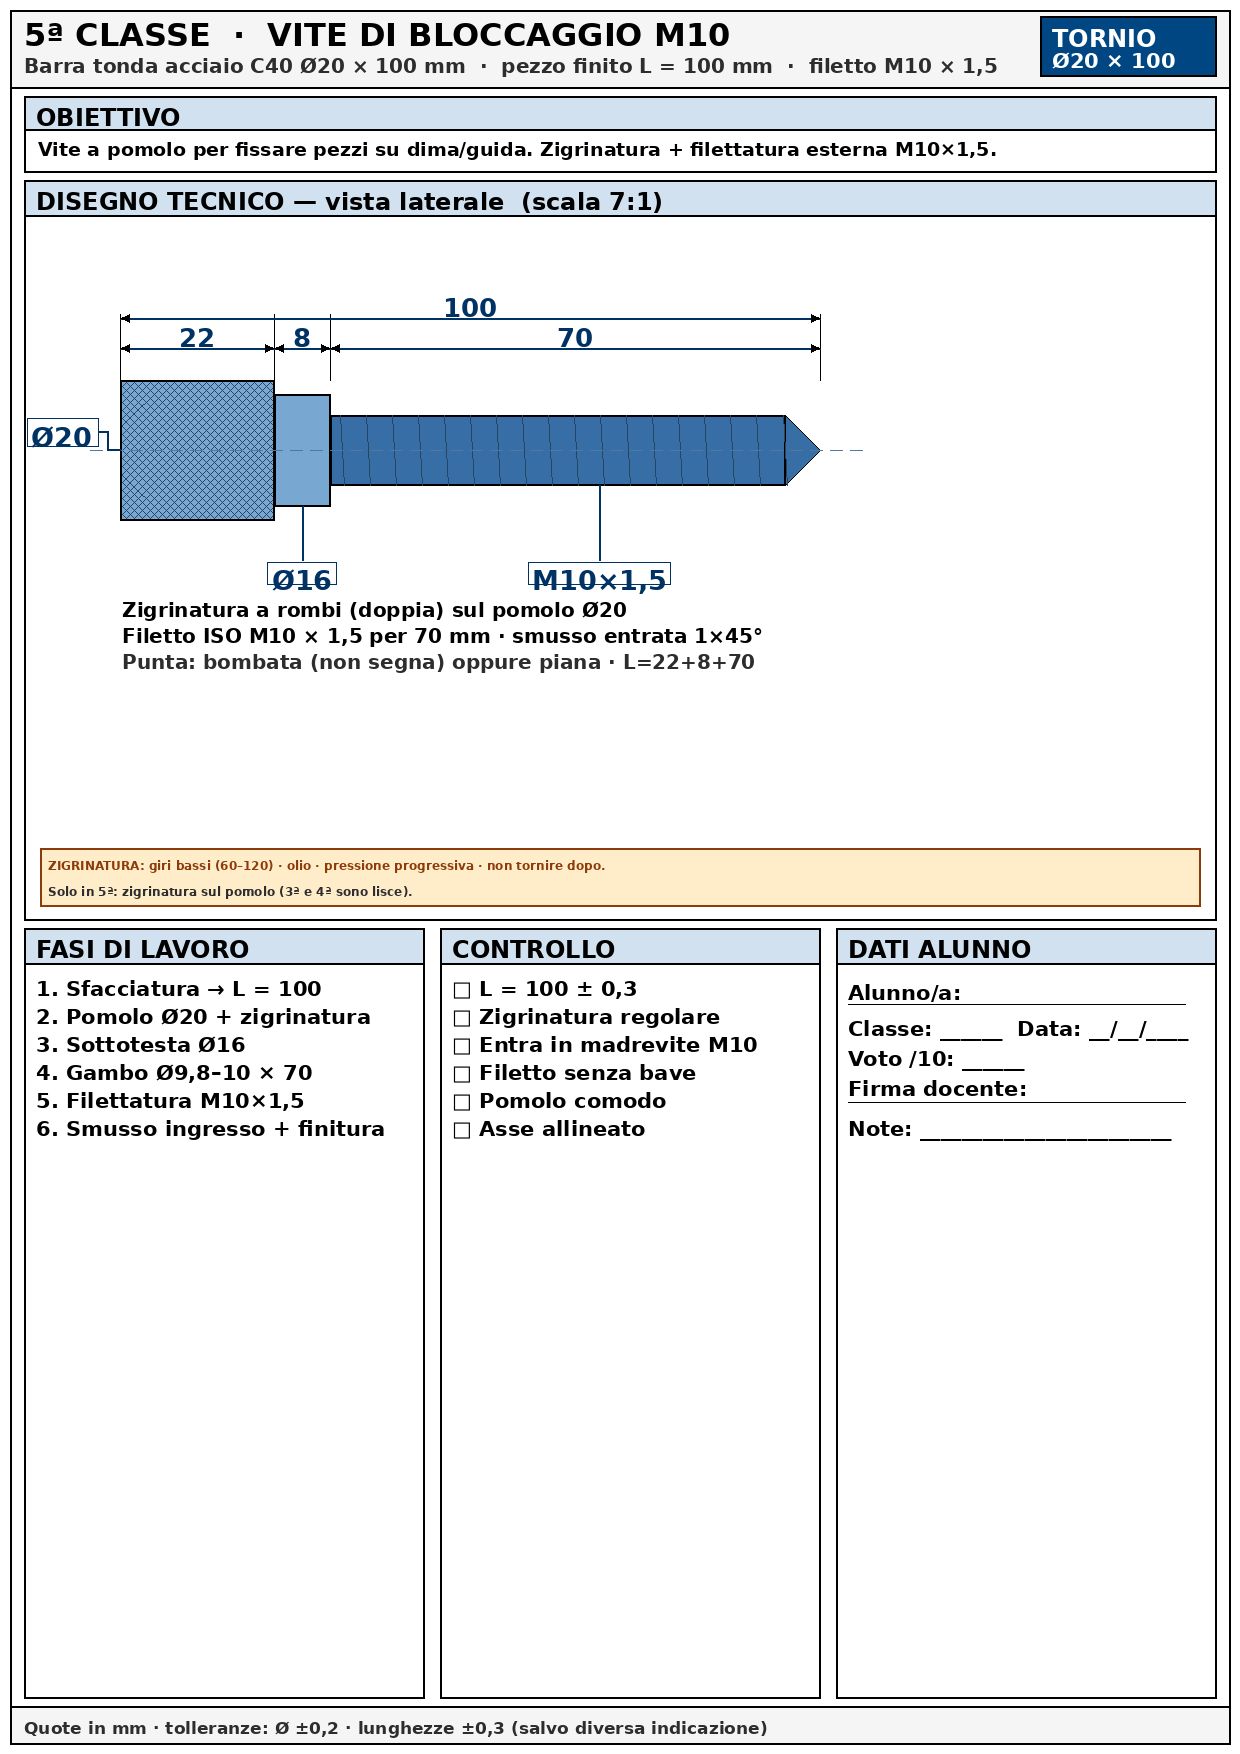
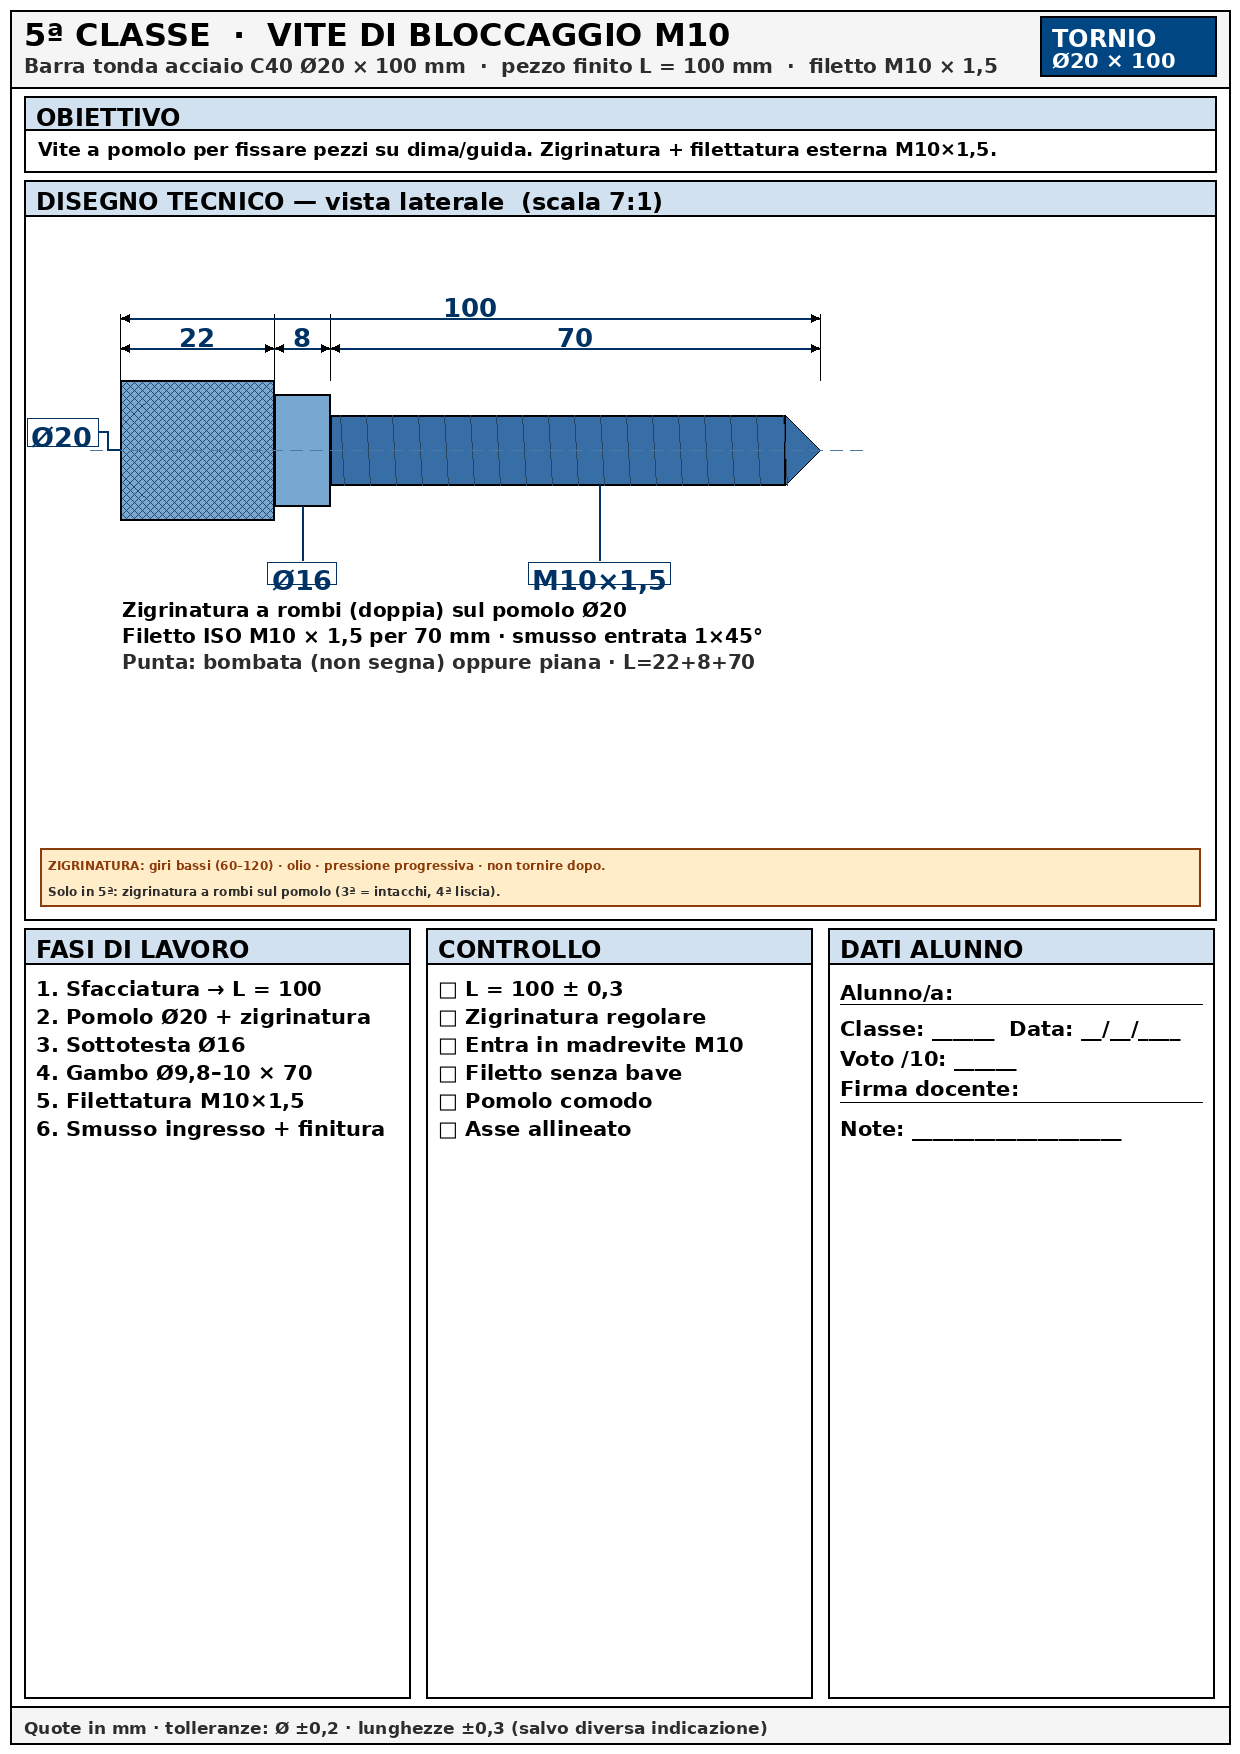
Tre pannelli bassi a larghezza uguale su 2ª, 3ª e 5ª.
Fasi, Controllo e Dati alunno stesse dimensioni; niente vuoto sotto.

diff --git a/progetti-ferro-gallery/generate_ferro.py b/progetti-ferro-gallery/generate_ferro.py
@@ -478,13 +478,18 @@ def make_2a():
         "□ Massa ≈ 100 g",
         "□ Solo ferro (no manico)",
     ]
-    # stessi pannelli bassi delle altre schede (3ª)
+    # Pannelli bassi: stesse dimensioni delle altre schede (3 colonne uguali + stessa altezza)
     step = 26
     bh = 40 + max(len(fasi), len(ctrl)) * step + 20
     bot = FOOT - bh - 8
     draw_h = bot - draw_top - 8
     panel(d, 24, draw_top, W - 48, draw_h, "VISTA LATERALE — ortogonale · ≈100 g · sezione occhio (scala 11:1)")
     panel_bottom = draw_top + draw_h
+    gap_p = 16
+    col_w = (W - 48 - 2 * gap_p) // 3   # ≈386 — uguali tra loro
+    x_fasi = 24
+    x_ctrl = x_fasi + col_w + gap_p
+    x_dati = x_ctrl + col_w + gap_p
 
     FACE_C = (70, 110, 150)
     IRON = (55, 58, 62)
@@ -608,7 +613,9 @@ def make_2a():
         tw = d.textlength(n, font=F14)
         d.text((cx - tw / 2, cy - 10), n, fill=WHITE, font=F14)
 
-    badge_y = mid + h + 36
+    # Blocco sotto pezzo ancorato in basso nel pannello (niente vuoto)
+    block_h = 36 + 44 + 36 + 34 + 32 + 8
+    badge_y = panel_bottom - block_h
     badge((x0 + x1) / 2, badge_y, "1", FACE_C)
     badge(hx, badge_y, "2", IRON)
     badge(peen_mid, badge_y, "3", PEEN_C)
@@ -633,29 +640,29 @@ def make_2a():
     d.rectangle([36, tip_y, info_x1 - 16, tip_y + 32], fill=(255, 245, 245), outline=CAP_RED, width=2)
     d.text((48, tip_y + 6), "Occhiali · morsa · foratura foro 8 · L=60 · sez. 16×16 · ≈100 g", fill=BLACK, font=F13)
 
-    right_y = draw_top + 350
     checks = ["□ Solo testa", "□ Sez. 16×16", "□ Foro 8", "□ ≈100 g", "□ L=60 ±0,3"]
     rh = 30 + len(checks) * 24 + 6
+    right_y = panel_bottom - rh - 12
     d.rectangle([info_x1 + 6, right_y, info_x2 - 6, right_y + rh], fill=WHITE, outline=BLACK, width=2)
     d.text((info_x1 + 12, right_y + 6), "CHECK", fill=ACCENT, font=F13)
     for i, ln in enumerate(checks):
         text_in_box(d, info_x1 + 10, right_y + 28 + i * 24, info_x2 - info_x1 - 24, 22, ln, F12, BLACK, pad=2)
 
-    y = panel(d, 24, bot, 400, bh, "FASI DI LAVORO")
+    y = panel(d, x_fasi, bot, col_w, bh, "FASI DI LAVORO")
     for i, ln in enumerate(fasi):
-        text_in_box(d, 32, y + 2 + i * step, 384, step - 2, ln, F13, BLACK, pad=3)
+        text_in_box(d, x_fasi + 8, y + 2 + i * step, col_w - 16, step - 2, ln, F13, BLACK, pad=3)
 
-    y2 = panel(d, 440, bot, 380, bh, "CONTROLLO")
+    y2 = panel(d, x_ctrl, bot, col_w, bh, "CONTROLLO")
     for i, ln in enumerate(ctrl):
-        text_in_box(d, 448, y2 + 2 + i * step, 364, step - 2, ln, F13, BLACK, pad=3)
+        text_in_box(d, x_ctrl + 8, y2 + 2 + i * step, col_w - 16, step - 2, ln, F13, BLACK, pad=3)
 
-    y3 = panel(d, 836, bot, W - 24 - 836, bh, "DATI ALUNNO")
-    text_in_box(d, 848, y3 + 6, 340, 24, "Alunno/a:", F13, BLACK, pad=2)
-    d.line([848, y3 + 32, 1190, y3 + 32], fill=BLACK, width=1)
-    text_in_box(d, 848, y3 + 40, 340, 24, "Classe: ____  Data: __/__/__", F13, BLACK, pad=2)
-    text_in_box(d, 848, y3 + 72, 340, 24, "Voto /10: ______", F13, BLACK, pad=2)
-    text_in_box(d, 848, y3 + 104, 340, 24, "Firma docente:", F13, BLACK, pad=2)
-    d.line([848, y3 + 132, 1190, y3 + 132], fill=BLACK, width=1)
+    y3 = panel(d, x_dati, bot, col_w, bh, "DATI ALUNNO")
+    text_in_box(d, x_dati + 12, y3 + 6, col_w - 24, 24, "Alunno/a:", F13, BLACK, pad=2)
+    d.line([x_dati + 12, y3 + 32, x_dati + col_w - 12, y3 + 32], fill=BLACK, width=1)
+    text_in_box(d, x_dati + 12, y3 + 40, col_w - 24, 24, "Classe: ____  Data: __/__/__", F13, BLACK, pad=2)
+    text_in_box(d, x_dati + 12, y3 + 72, col_w - 24, 24, "Voto /10: ______", F13, BLACK, pad=2)
+    text_in_box(d, x_dati + 12, y3 + 104, col_w - 24, 24, "Firma docente:", F13, BLACK, pad=2)
+    d.line([x_dati + 12, y3 + 132, x_dati + col_w - 12, y3 + 132], fill=BLACK, width=1)
 
     save(img, "01-2a-testa-martello.png", "STAMPA-2a-testa-martello.png")
 
@@ -844,21 +851,24 @@ def make_3a():
         for i, ln in enumerate(checks3):
             d.text((info_x1 + 16, right_y + 36 + i * 26), ln, fill=BLACK, font=F12)
 
-    y = panel(d, 24, bot, 400, bh, "FASI DI LAVORO")
+    gap_p = 16
+    col_w = (W - 48 - 2 * gap_p) // 3
+    x_fasi, x_ctrl, x_dati = 24, 24 + col_w + gap_p, 24 + 2 * (col_w + gap_p)
+    y = panel(d, x_fasi, bot, col_w, bh, "FASI DI LAVORO")
     for i, ln in enumerate(fasi):
-        text_in_box(d, 32, y + 2 + i * step, 384, step - 2, ln, F13, BLACK, pad=3)
+        text_in_box(d, x_fasi + 8, y + 2 + i * step, col_w - 16, step - 2, ln, F13, BLACK, pad=3)
 
-    y2 = panel(d, 440, bot, 380, bh, "CONTROLLO")
+    y2 = panel(d, x_ctrl, bot, col_w, bh, "CONTROLLO")
     for i, ln in enumerate(ctrl):
-        text_in_box(d, 448, y2 + 2 + i * step, 364, step - 2, ln, F13, BLACK, pad=3)
+        text_in_box(d, x_ctrl + 8, y2 + 2 + i * step, col_w - 16, step - 2, ln, F13, BLACK, pad=3)
 
-    y3 = panel(d, 836, bot, W - 24 - 836, bh, "DATI ALUNNO")
-    text_in_box(d, 848, y3 + 6, 340, 24, "Alunno/a:", F13, BLACK, pad=2)
-    d.line([848, y3 + 32, 1190, y3 + 32], fill=BLACK, width=1)
-    text_in_box(d, 848, y3 + 40, 340, 24, "Classe: ____  Data: __/__/__", F13, BLACK, pad=2)
-    text_in_box(d, 848, y3 + 72, 340, 24, "Voto /10: ______", F13, BLACK, pad=2)
-    text_in_box(d, 848, y3 + 104, 340, 24, "Firma docente:", F13, BLACK, pad=2)
-    d.line([848, y3 + 132, 1190, y3 + 132], fill=BLACK, width=1)
+    y3 = panel(d, x_dati, bot, col_w, bh, "DATI ALUNNO")
+    text_in_box(d, x_dati + 12, y3 + 6, col_w - 24, 24, "Alunno/a:", F13, BLACK, pad=2)
+    d.line([x_dati + 12, y3 + 32, x_dati + col_w - 12, y3 + 32], fill=BLACK, width=1)
+    text_in_box(d, x_dati + 12, y3 + 40, col_w - 24, 24, "Classe: ____  Data: __/__/__", F13, BLACK, pad=2)
+    text_in_box(d, x_dati + 12, y3 + 72, col_w - 24, 24, "Voto /10: ______", F13, BLACK, pad=2)
+    text_in_box(d, x_dati + 12, y3 + 104, col_w - 24, 24, "Firma docente:", F13, BLACK, pad=2)
+    d.line([x_dati + 12, y3 + 132, x_dati + col_w - 12, y3 + 132], fill=BLACK, width=1)
 
     save(img, "02-3a-perno-spallamenti.png", "STAMPA-3a-perno-spallamenti.png")
 
@@ -1083,7 +1093,10 @@ def make_5a():
 
     bot = draw_top + draw_h + 8
     bh = FOOT - bot - 8
-    y = panel(d, 24, bot, 400, bh, "FASI DI LAVORO")
+    gap_p = 16
+    col_w = (W - 48 - 2 * gap_p) // 3
+    x_fasi, x_ctrl, x_dati = 24, 24 + col_w + gap_p, 24 + 2 * (col_w + gap_p)
+    y = panel(d, x_fasi, bot, col_w, bh, "FASI DI LAVORO")
     fasi5 = [
         "1. Sfacciatura → L = 100",
         "2. Pomolo Ø20 + zigrinatura",
@@ -1094,9 +1107,9 @@ def make_5a():
     ]
     step5 = list_step(len(fasi5), bh - 48)
     for i, ln in enumerate(fasi5):
-        d.text((36, y + 2 + i * step5), ln, fill=BLACK, font=F12)
+        d.text((x_fasi + 12, y + 2 + i * step5), ln, fill=BLACK, font=F12)
 
-    y2 = panel(d, 440, bot, 380, bh, "CONTROLLO")
+    y2 = panel(d, x_ctrl, bot, col_w, bh, "CONTROLLO")
     ctrl5 = [
         "□ L = 100 ± 0,3",
         "□ Zigrinatura regolare",
@@ -1107,16 +1120,16 @@ def make_5a():
     ]
     step5c = list_step(len(ctrl5), bh - 48)
     for i, ln in enumerate(ctrl5):
-        d.text((452, y2 + 2 + i * step5c), ln, fill=BLACK, font=F12)
+        d.text((x_ctrl + 12, y2 + 2 + i * step5c), ln, fill=BLACK, font=F12)
 
-    y3 = panel(d, 836, bot, W - 24 - 836, bh, "DATI ALUNNO")
-    d.text((848, y3 + 6), "Alunno/a:", fill=BLACK, font=F12)
-    d.line([848, y3 + 30, 1185, y3 + 30], fill=BLACK, width=1)
-    d.text((848, y3 + 42), "Classe: ______  Data: __/__/____", fill=BLACK, font=F12)
-    d.text((848, y3 + 72), "Voto /10: ______", fill=BLACK, font=F12)
-    d.text((848, y3 + 102), "Firma docente:", fill=BLACK, font=F12)
-    d.line([848, y3 + 128, 1185, y3 + 128], fill=BLACK, width=1)
-    d.text((848, y3 + 142), "Note: ________________________", fill=BLACK, font=F12)
+    y3 = panel(d, x_dati, bot, col_w, bh, "DATI ALUNNO")
+    d.text((x_dati + 12, y3 + 6), "Alunno/a:", fill=BLACK, font=F12)
+    d.line([x_dati + 12, y3 + 30, x_dati + col_w - 12, y3 + 30], fill=BLACK, width=1)
+    d.text((x_dati + 12, y3 + 42), "Classe: ______  Data: __/__/____", fill=BLACK, font=F12)
+    d.text((x_dati + 12, y3 + 72), "Voto /10: ______", fill=BLACK, font=F12)
+    d.text((x_dati + 12, y3 + 102), "Firma docente:", fill=BLACK, font=F12)
+    d.line([x_dati + 12, y3 + 128, x_dati + col_w - 12, y3 + 128], fill=BLACK, width=1)
+    d.text((x_dati + 12, y3 + 142), "Note: ____________________", fill=BLACK, font=F12)
 
     save(img, "04-5a-vite-bloccaggio.png", "STAMPA-5a-vite-bloccaggio.png")
 
